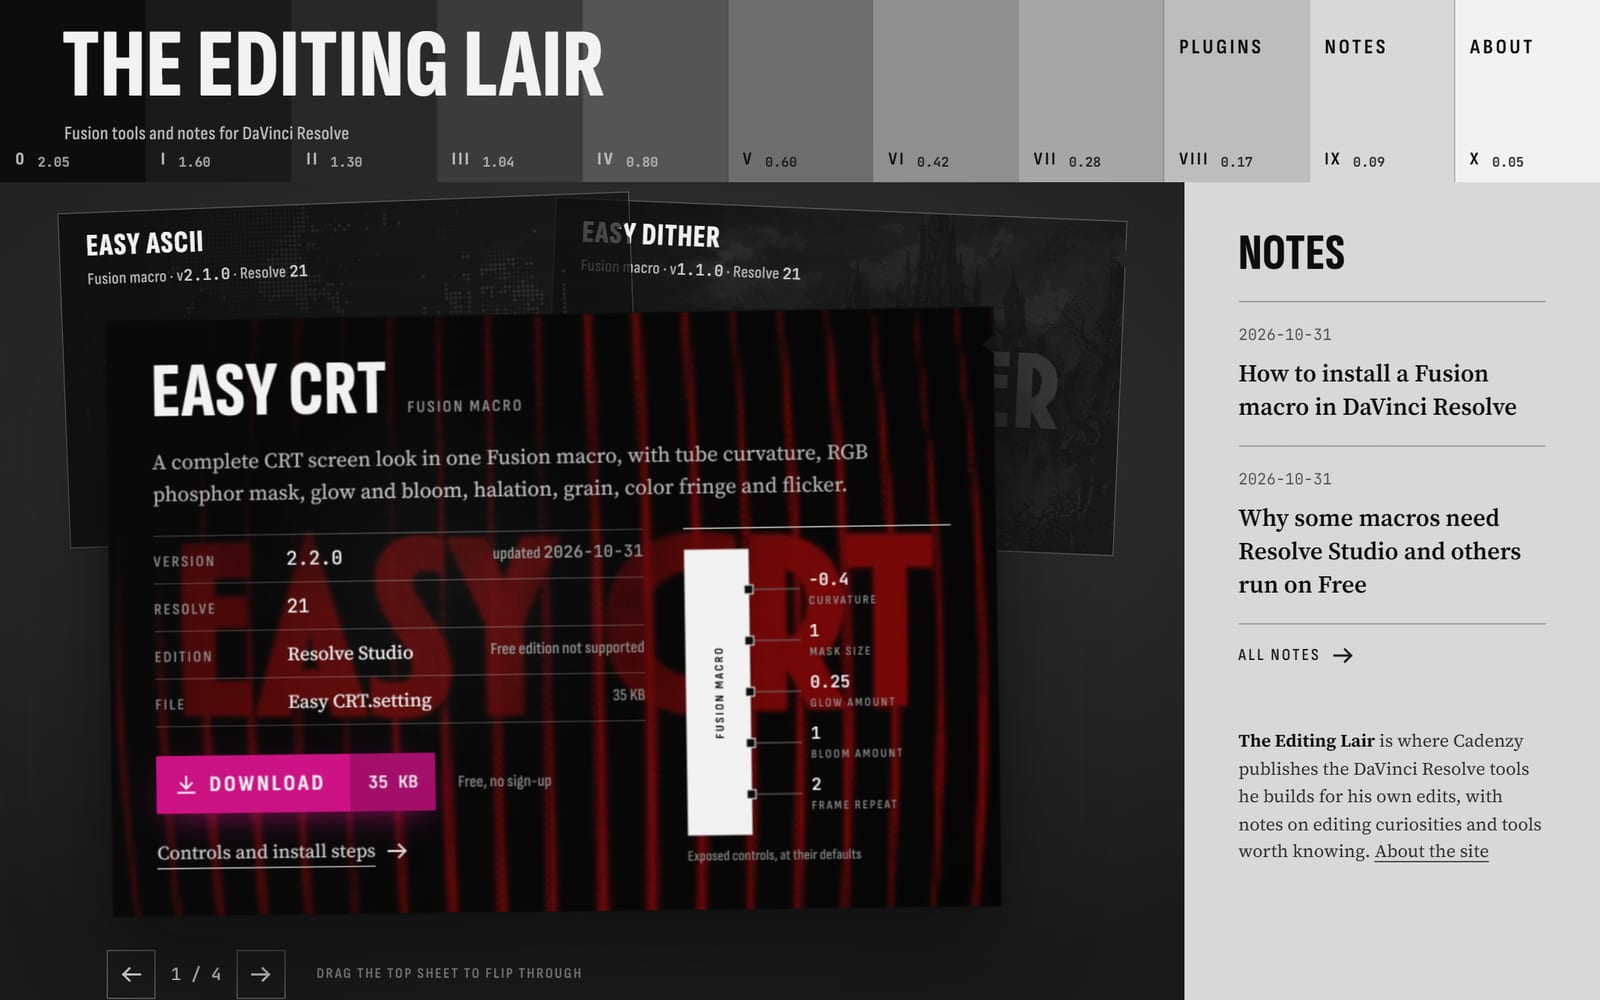
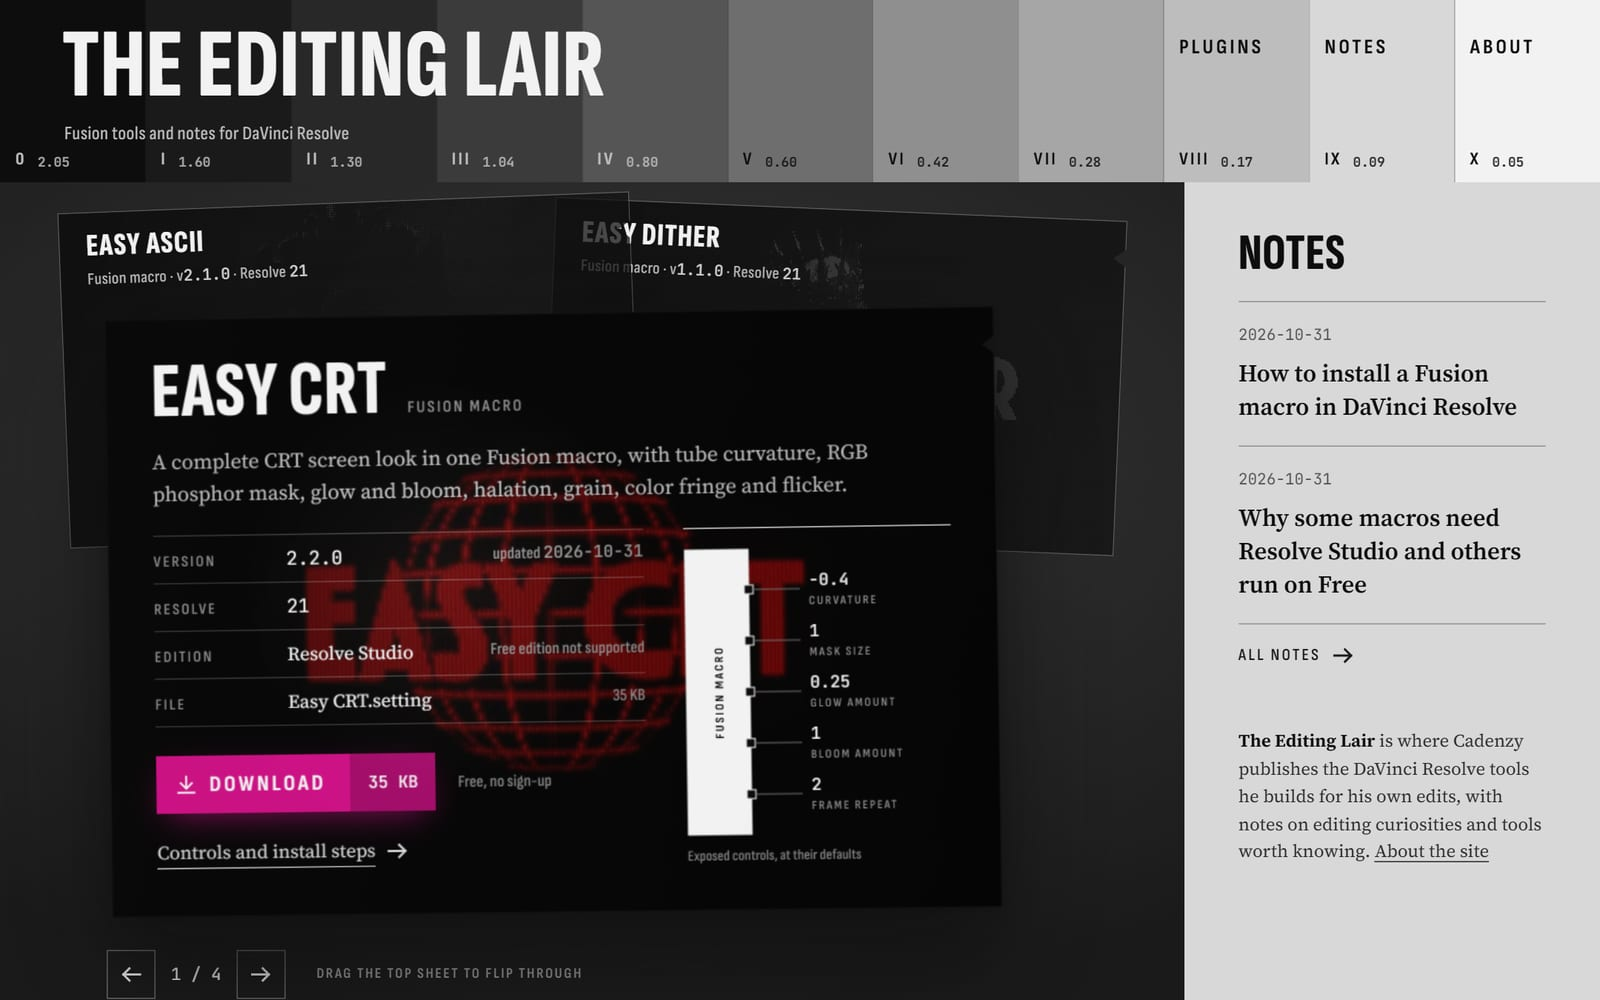
Replace all four plugin covers
New covers for Easy CRT, Easy ASCII, Easy Dither and Easy Bit, with
matching alt text and per-cover brightness so each stays legible in
black and white at rest. README screenshots retaken.

Changed region(s): [[0.0625, 0.31, 0.625, 0.93], [0.625, 0.341, 0.6875, 0.434], [0.5938, 0.31, 0.625, 0.341]]

diff --git a/src/content/plugins/easy-dither.md b/src/content/plugins/easy-dither.md
@@ -20,7 +20,8 @@ controls:
   - { name: Posterize Steps, default: "3" }
   - { name: Color Mode, default: "Original" }
 cover: ./images/easy-dither.jpg
-coverAlt: The words EASY DITHER in white dot-pattern letters over a dithered night scene of a gothic castle, with a lantern-lit path in the foreground.
+coverBrightness: 1.4
+coverAlt: The words EASY DITHER in blue over a dithered, dimly lit figure wearing a spiked crown, on a black background.
 tags: [dither, retro, pixel, duotone]
 changelog:
   - version: 1.1.0

diff --git a/src/content/plugins/easy-ascii.md b/src/content/plugins/easy-ascii.md
@@ -20,7 +20,8 @@ controls:
   - { name: Glyph Size, default: "1.5" }
   - { name: Contrast, default: "1" }
 cover: ./images/easy-ascii.jpg
-coverAlt: The words EASY ASCII built from yellow @ characters over a world map drawn in orange, pink and purple ASCII symbols on a dark navy background.
+coverBrightness: 1.4
+coverAlt: The words EASY ASCII in white dot characters over a dark red ASCII-art silhouette of a cloaked figure.
 tags: [ascii, text, retro, stylize]
 changelog:
   - version: 2.1.0

diff --git a/src/content/plugins/easy-bit.md b/src/content/plugins/easy-bit.md
@@ -19,7 +19,8 @@ controls:
   - { name: Color Steps, default: "3" }
   - { name: Frame Repeat, default: "5" }
 cover: ./images/easy-bit.jpg
-coverAlt: The words Easy Bit in white over a pixelated, posterized photo of a drummer and a singer in a dim, warm-lit room.
+coverBrightness: 1.4
+coverAlt: The words EASY BIT in white over a pixel-art raccoon mask in dark blue, on a black background.
 tags: [pixel, 8-bit, retro, palette]
 changelog:
   - version: 1.0.0

diff --git a/src/content/plugins/easy-crt.md b/src/content/plugins/easy-crt.md
@@ -20,8 +20,8 @@ controls:
   - { name: Bloom Amount, default: "1" }
   - { name: Frame Repeat, default: "2" }
 cover: ./images/easy-crt.jpg
-coverBrightness: 2.1
-coverAlt: The words EASY CRT in red on a black CRT screen, crossed by wavy vertical scan lines.
+coverBrightness: 2.6
+coverAlt: The words EASY CRT in red over a red wireframe globe on a black screen.
 tags: [crt, retro, screen, glow]
 changelog:
   - version: 2.2.0
